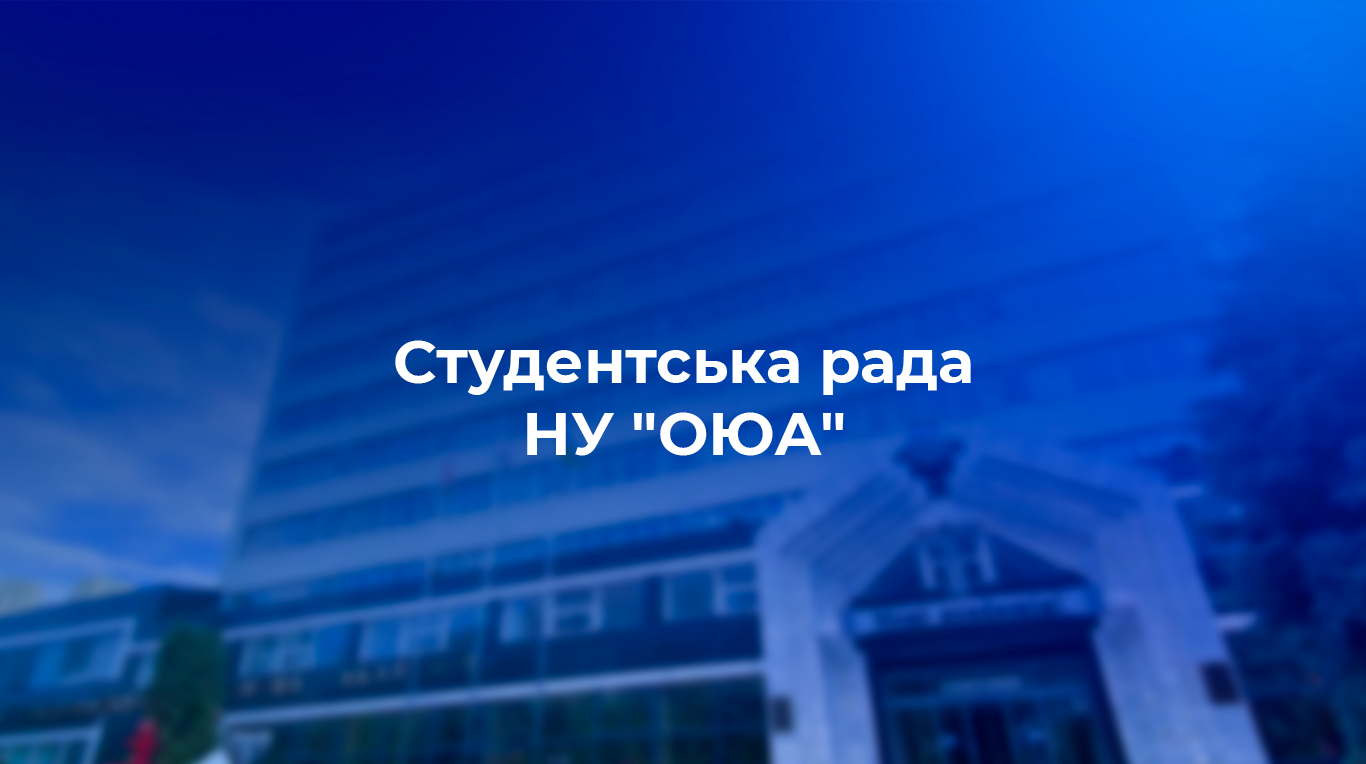
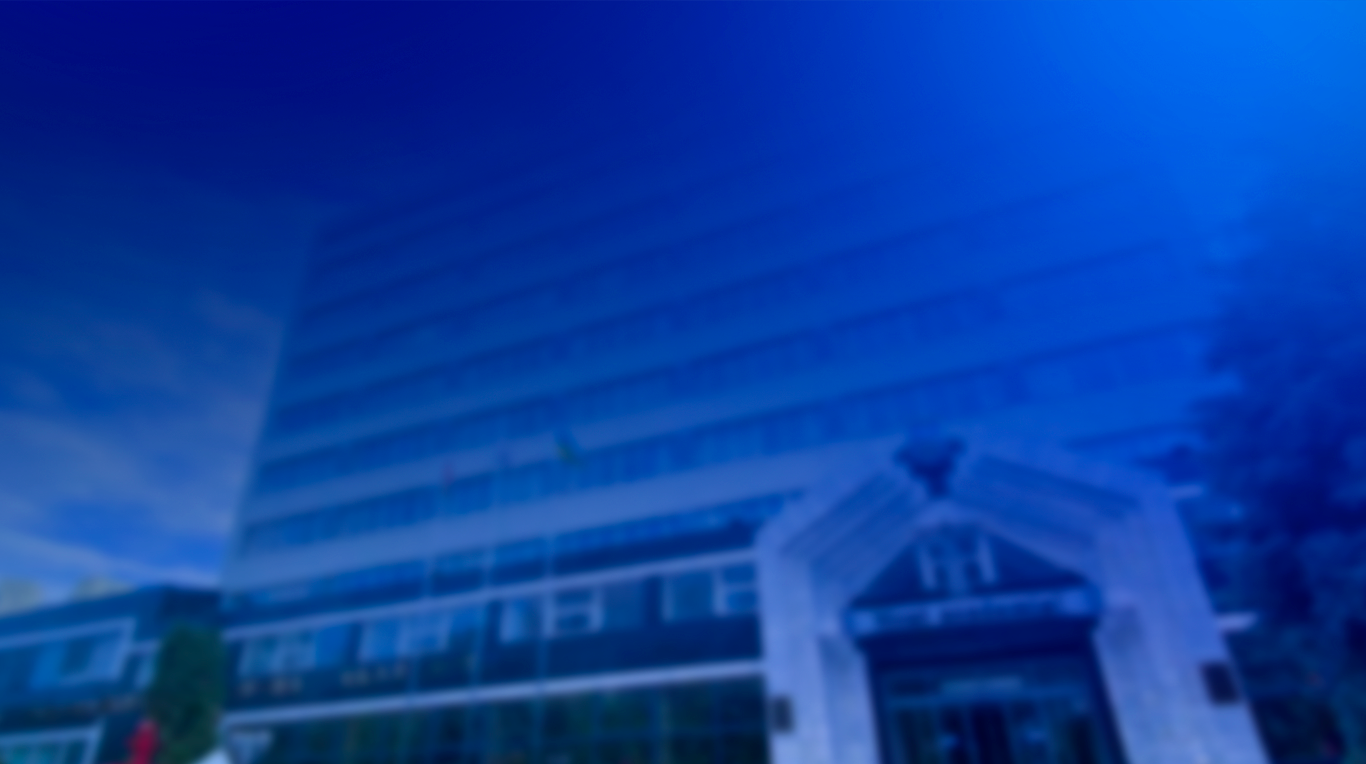
merge bug fixing

Changed region(s): [[0.2767, 0.4516, 0.7072, 0.5118], [0.369, 0.5419, 0.6149, 0.6021]]

diff --git a/src/theme/primaryTheme/typography.ts b/src/theme/primaryTheme/typography.ts
@@ -1,17 +1,10 @@
 import { TFontSizes } from 'src/theme/types'
 
-<<<<<<< HEAD
-export const fontSizes: TFontSizes = [16, 20, 26, 32, 48]
-=======
 export const fontSizes: TFontSizes = [16, 20, 26, 32, 48, 60]
->>>>>>> create-banner
 
 fontSizes.verySmall = fontSizes[0]
 fontSizes.small = fontSizes[1]
 fontSizes.medium = fontSizes[2]
 fontSizes.large = fontSizes[3]
 fontSizes.larger = fontSizes[4]
-<<<<<<< HEAD
-=======
 fontSizes.banner = fontSizes[5]
->>>>>>> create-banner

diff --git a/src/ui/Text.tsx b/src/ui/Text.tsx
@@ -31,11 +31,7 @@ const variants = {
     color: 'text'
   },
   bannerText: {
-<<<<<<< HEAD
-    fontSize: 4,
-=======
     fontSize: 5,
->>>>>>> create-banner
     color: 'white',
     fontWeight: 'bold'
   }
